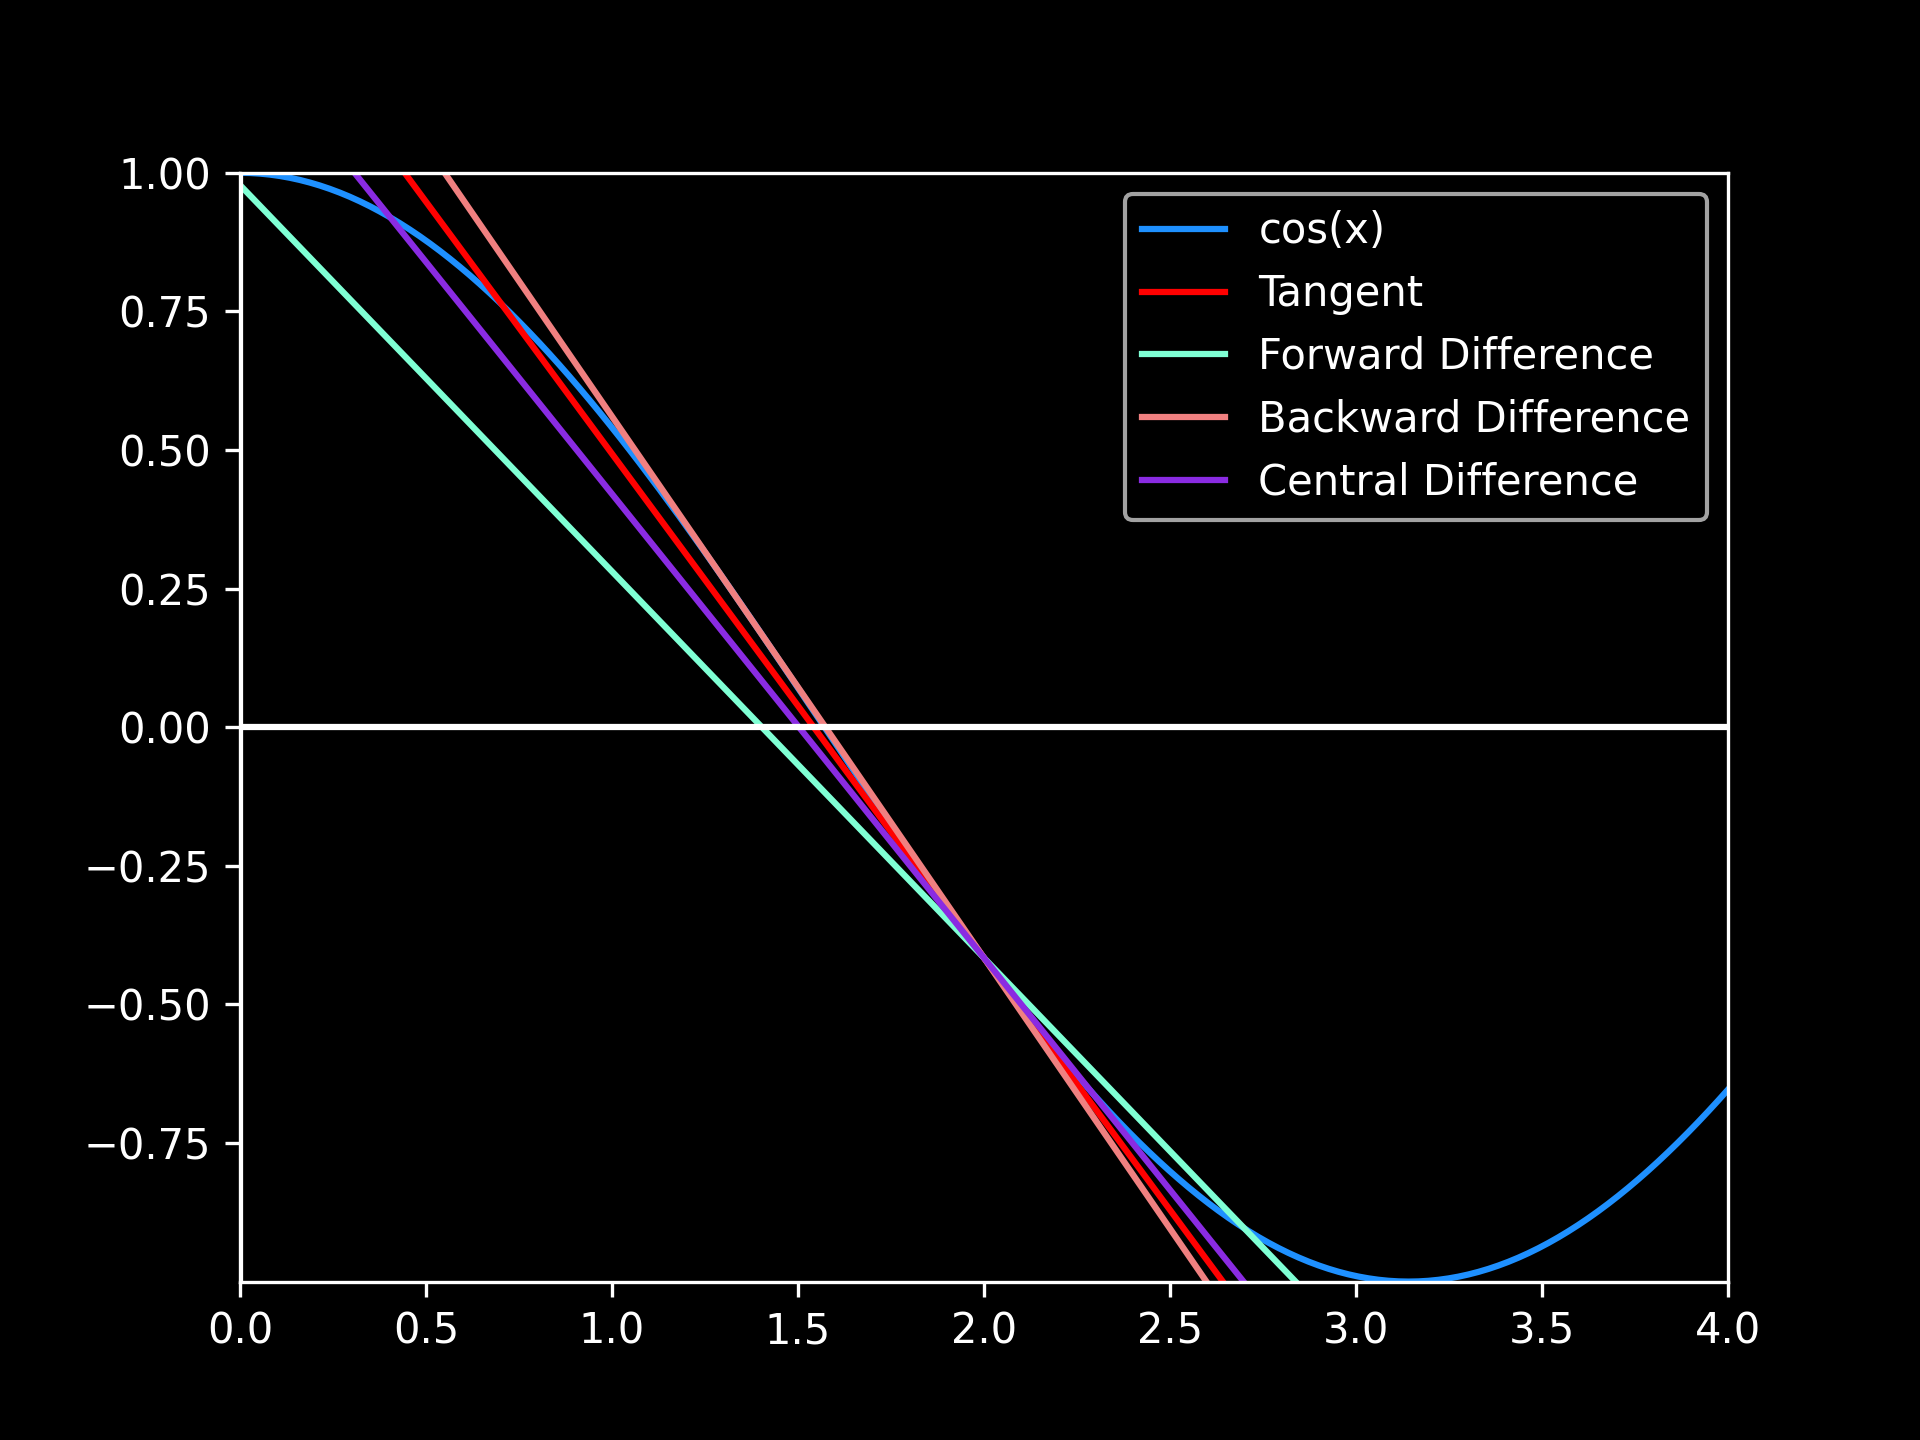
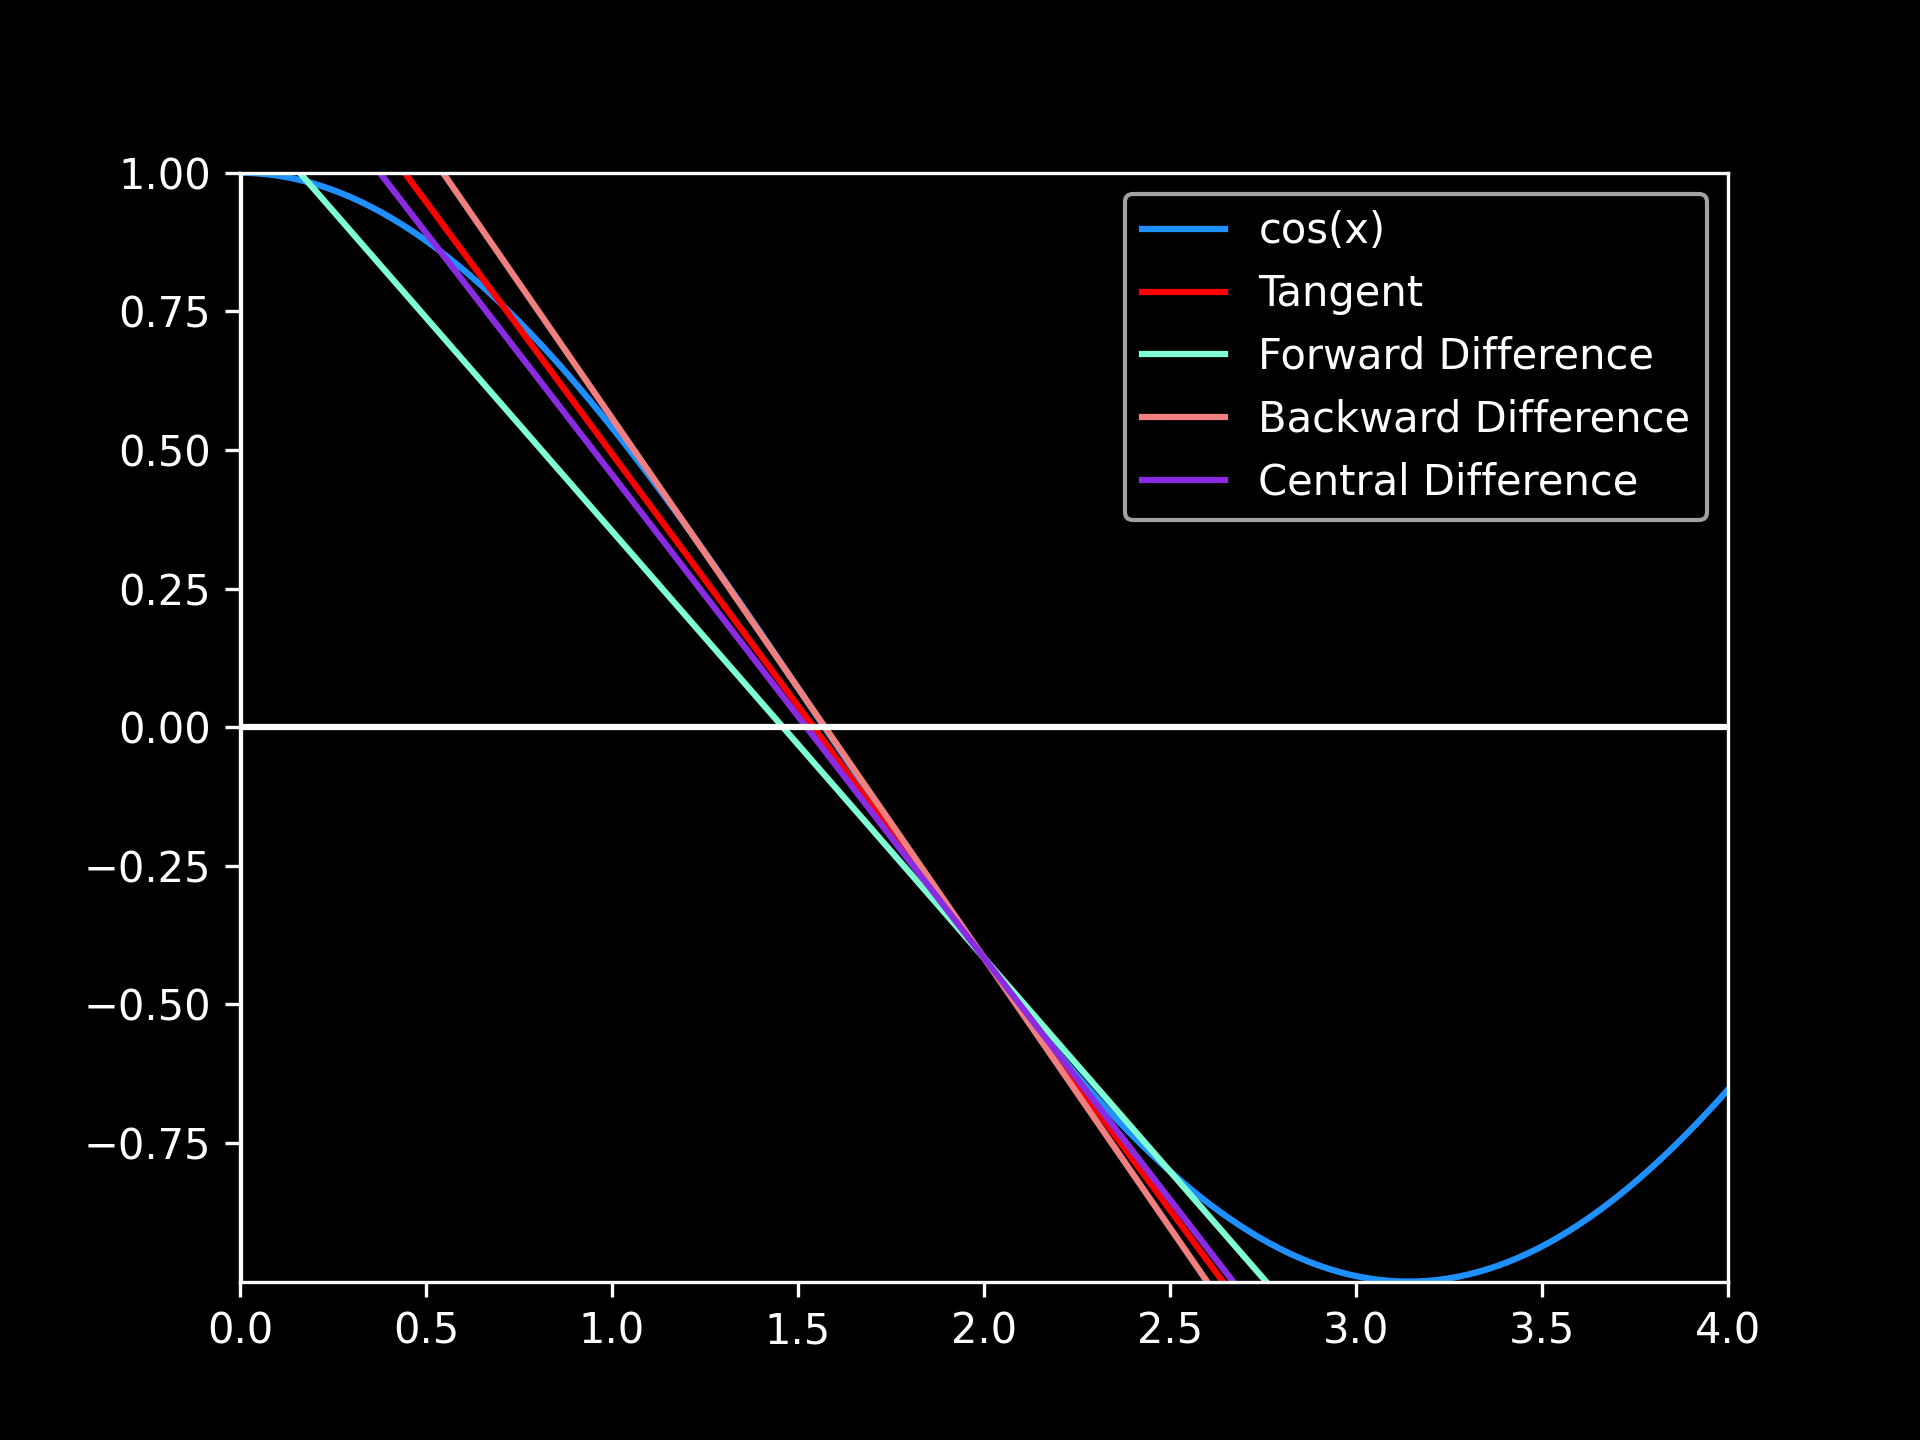
update to example for approximations

Changed region(s): [[0.125, 0.125, 0.4688, 0.5938], [0.5312, 0.6875, 0.6562, 0.9062], [0.4688, 0.5938, 0.5, 0.6562]]

diff --git a/blog/derivatives.py b/blog/derivatives.py
@@ -14,7 +14,7 @@ def main():
         return slope * (x - x0) + y0
 
     x = np.linspace(0, 4, 150)
-    h = 0.7
+    h = 0.5
     x0 = 2.0
     y0 = f(x0)
     true_dx = df(x0)
